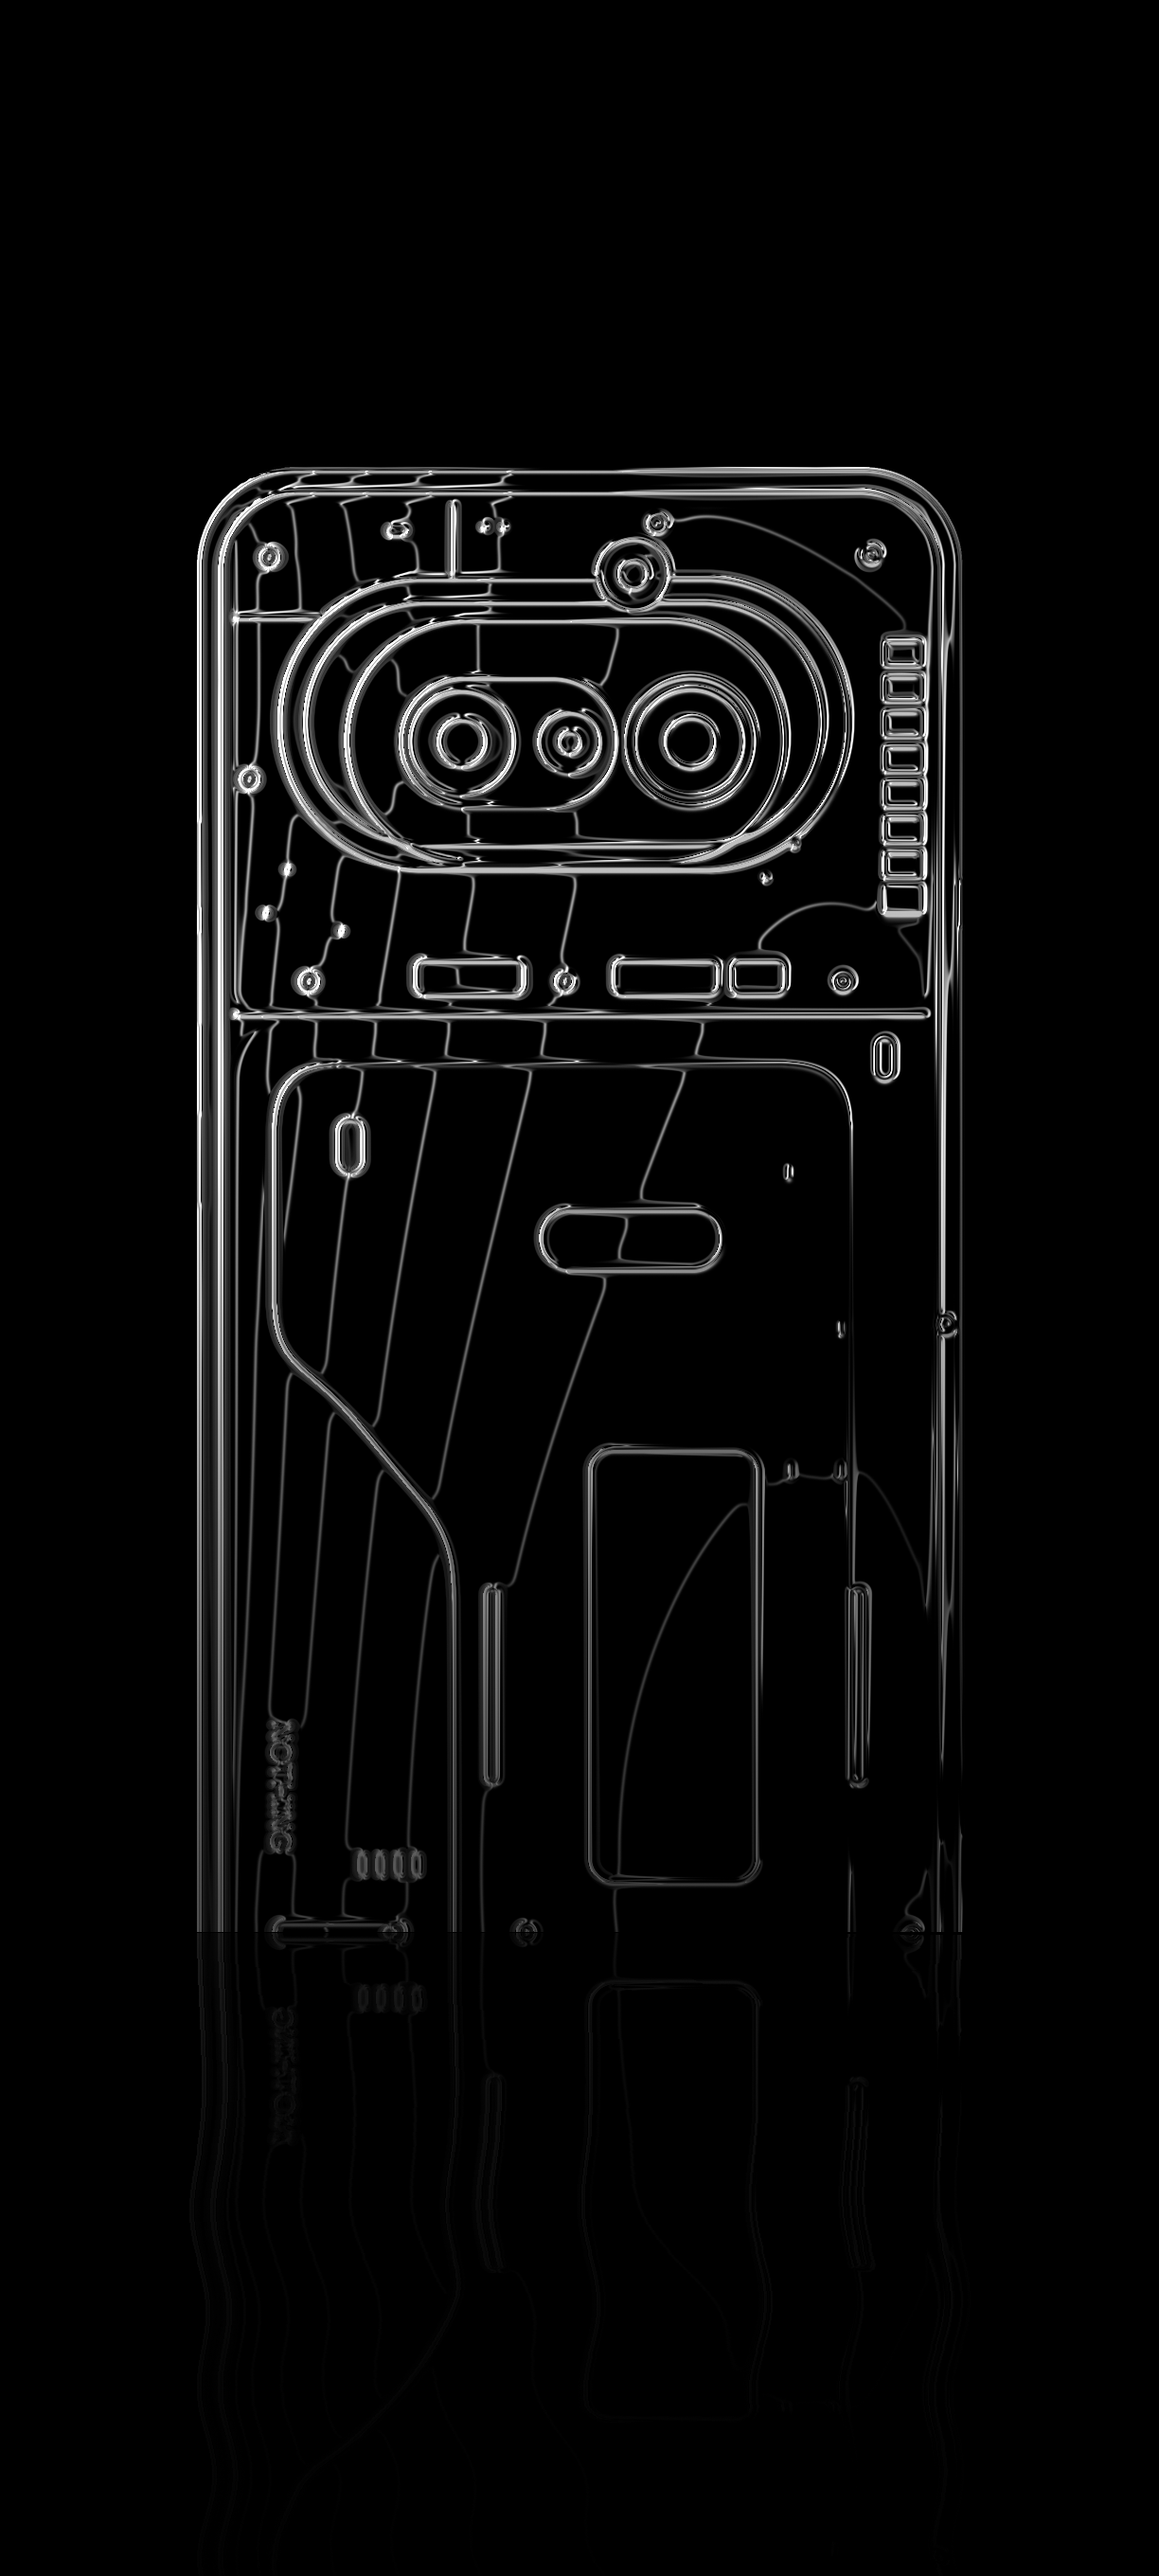
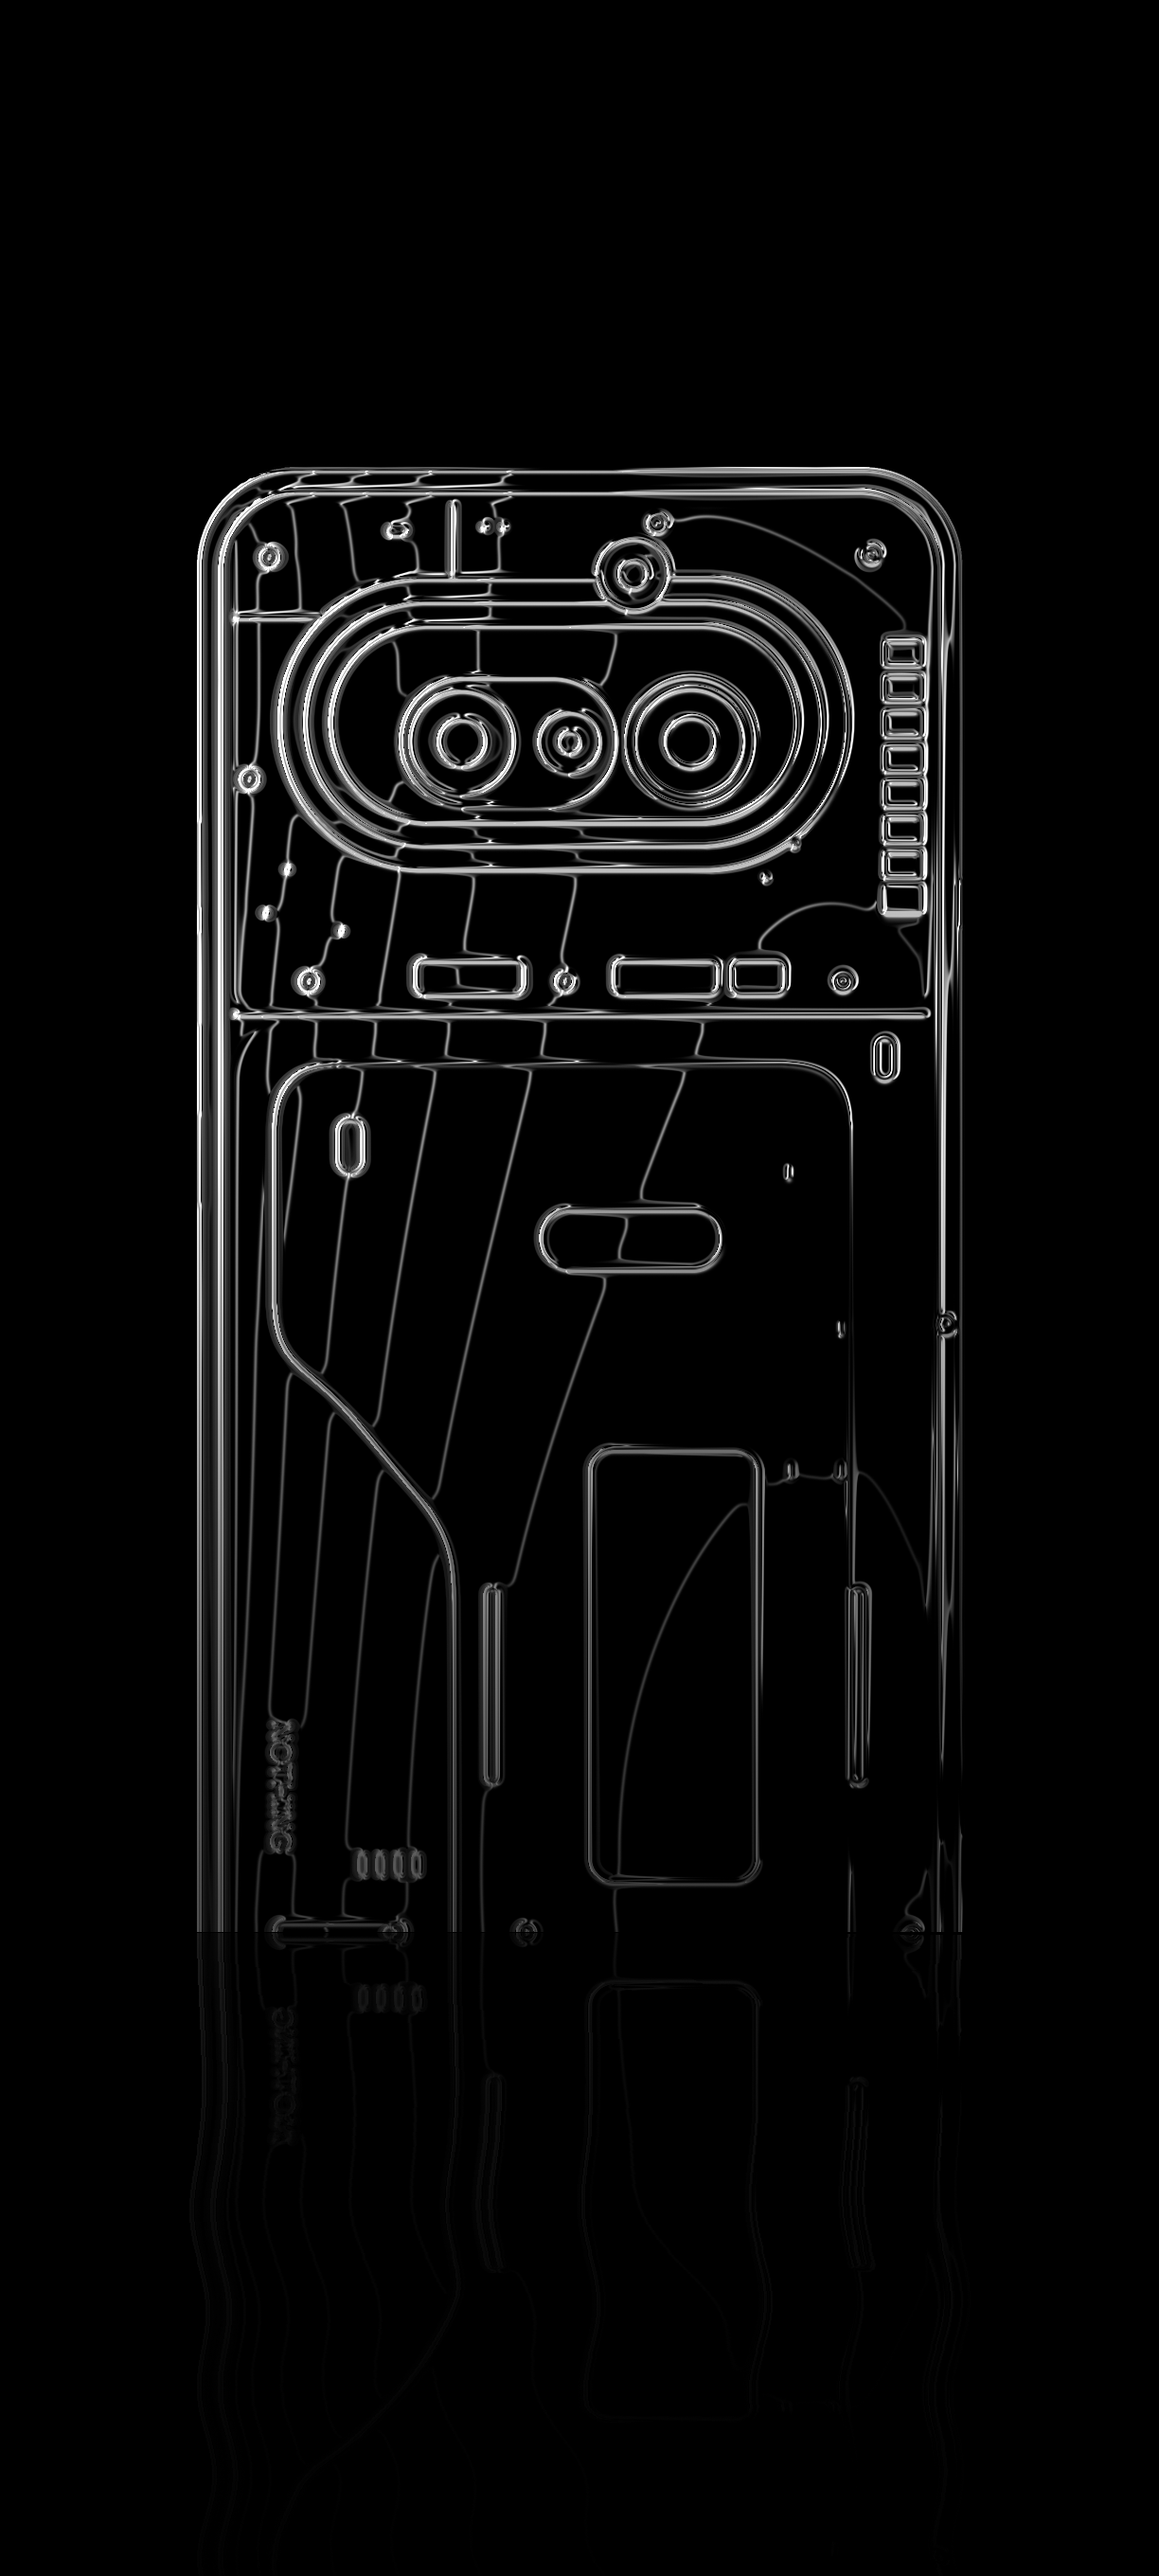
Nest the inner camera ring inside the phone wallpapers' camera bar

Changed region(s): [[0.2794, 0.2188, 0.652, 0.3438], [0.652, 0.25, 0.7141, 0.3125]]

diff --git a/scripts/wallpaper.py b/scripts/wallpaper.py
@@ -105,7 +105,7 @@ def phone(scale):
     plane(90, 313, 65, 697, 345, 10)
     plane(70, 313, 350, 697, 940, 35)
     plane(140, 338, 105, 655, 268, 80)
-    plane(200, 375, 128, 620, 265, 68)
+    plane(200, 366, 131, 627, 242, 56)
     plane(120, 405, 160, 527, 234, 37)
     plane(120, 530, 160, 604, 234, 37)
     for center_x, radius in [(440, 30), (500, 18), (567, 31)]:
@@ -124,7 +124,7 @@ def phone(scale):
     box(398, 77, 410, 83, 3)
     box(338, 105, 655, 268, 80, fill=0)
     box(352, 118, 641, 255, 70)
-    box(375, 128, 620, 265, 68)
+    box(366, 131, 627, 242, 56)
     box(405, 160, 527, 234, 37)
     ring(567, 197, 37)
     lenses = [(440, 30), (440, 14), (500, 18), (500, 7), (567, 31), (567, 15)]
